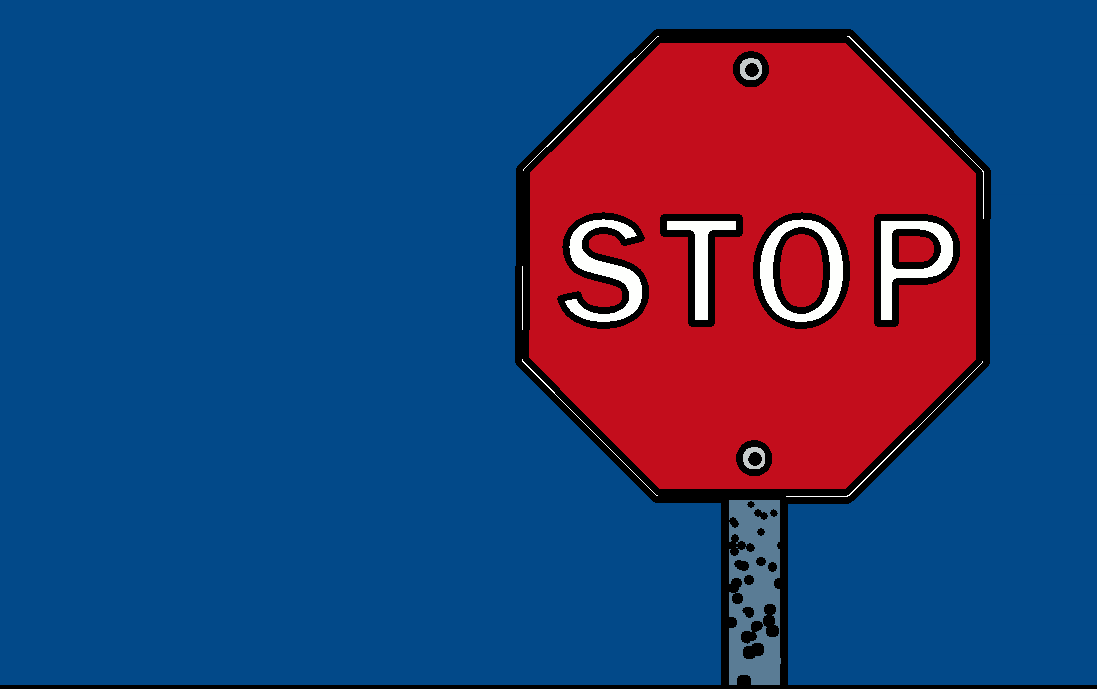
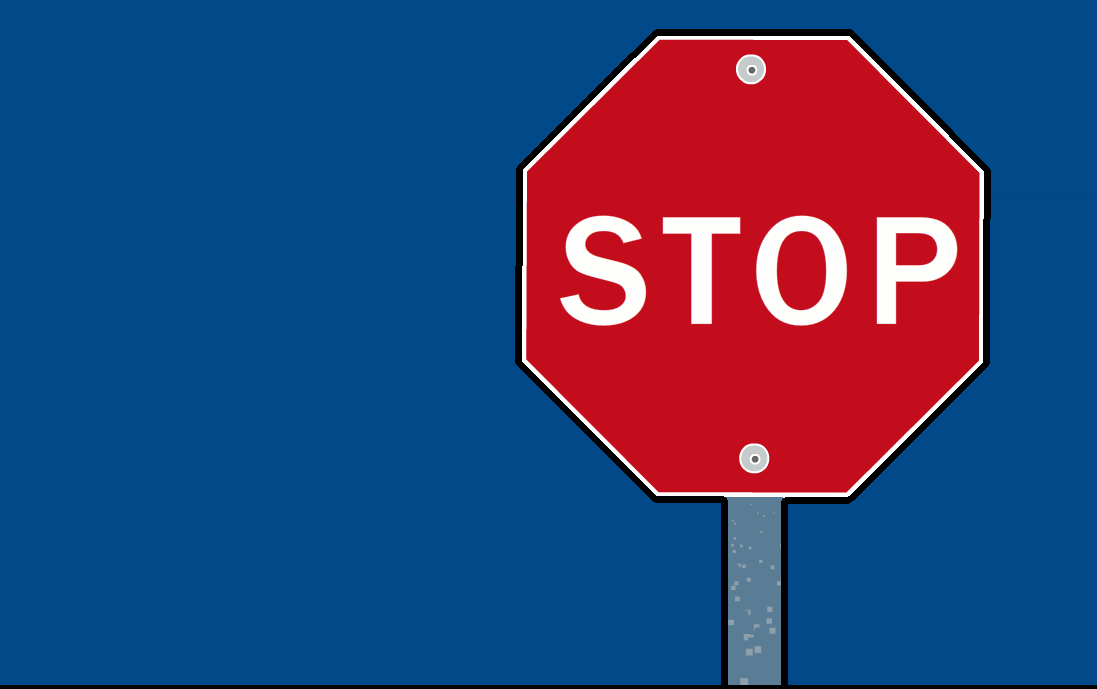
n

diff --git a/new.py b/new.py
@@ -8,7 +8,7 @@ img = cv2.imread("s.png")
 imgray = cv2.cvtColor(img,cv2.COLOR_BGR2GRAY)
 ret,thresh = cv2.threshold(imgray,127,255,0)
 #th3 = cv2.adaptiveThreshold(imgray,255,cv2.ADAPTIVE_THRESH_GAUSSIAN_C,cv2.THRESH_BINARY,11,2)
-im2, contours, hierarchy = cv2.findContours(thresh,cv2.RETR_TREE,cv2.CHAIN_APPROX_NONE)
+im2, contours, hierarchy = cv2.findContours(thresh,cv2.RETR_EXTERNAL,cv2.CHAIN_APPROX_NONE)
 cv2.drawContours(img, contours, -1, (0,0,0), 5)
 cv2.imwrite("c.png", img)
 #cv2.imshow("canny", cv2.imread("canny.jpg"))
